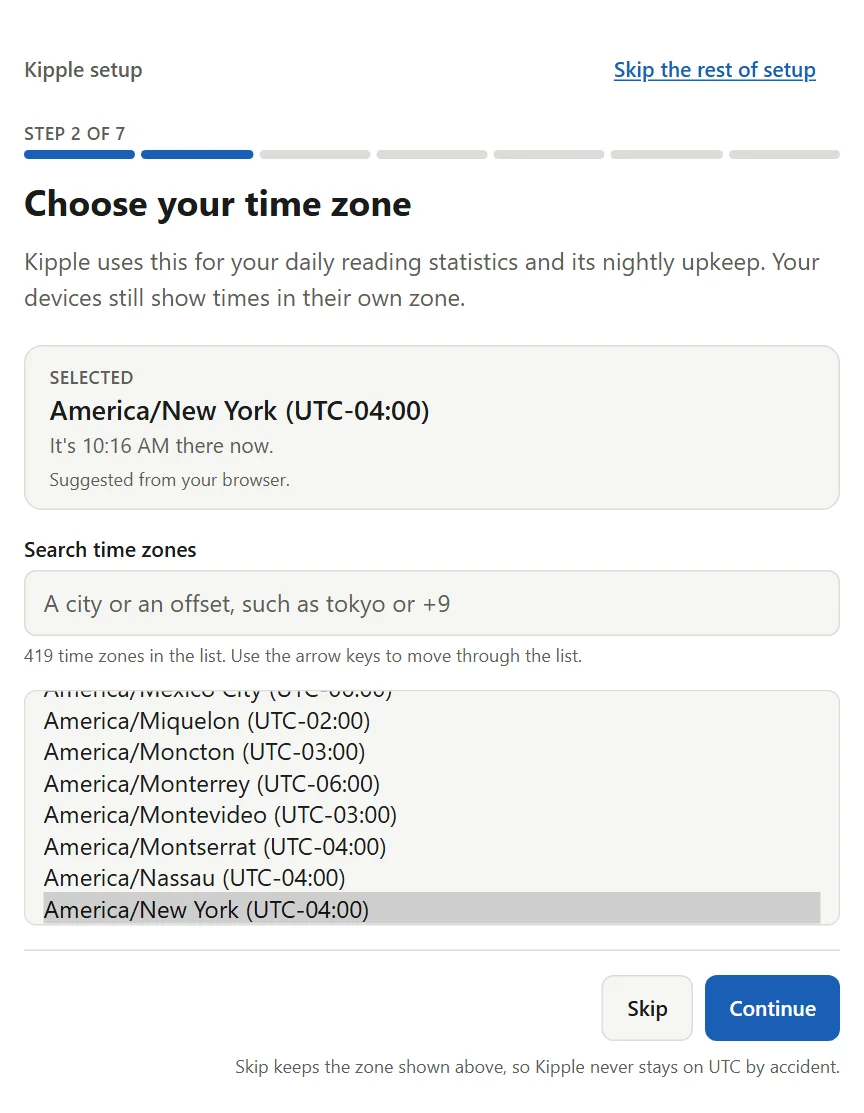
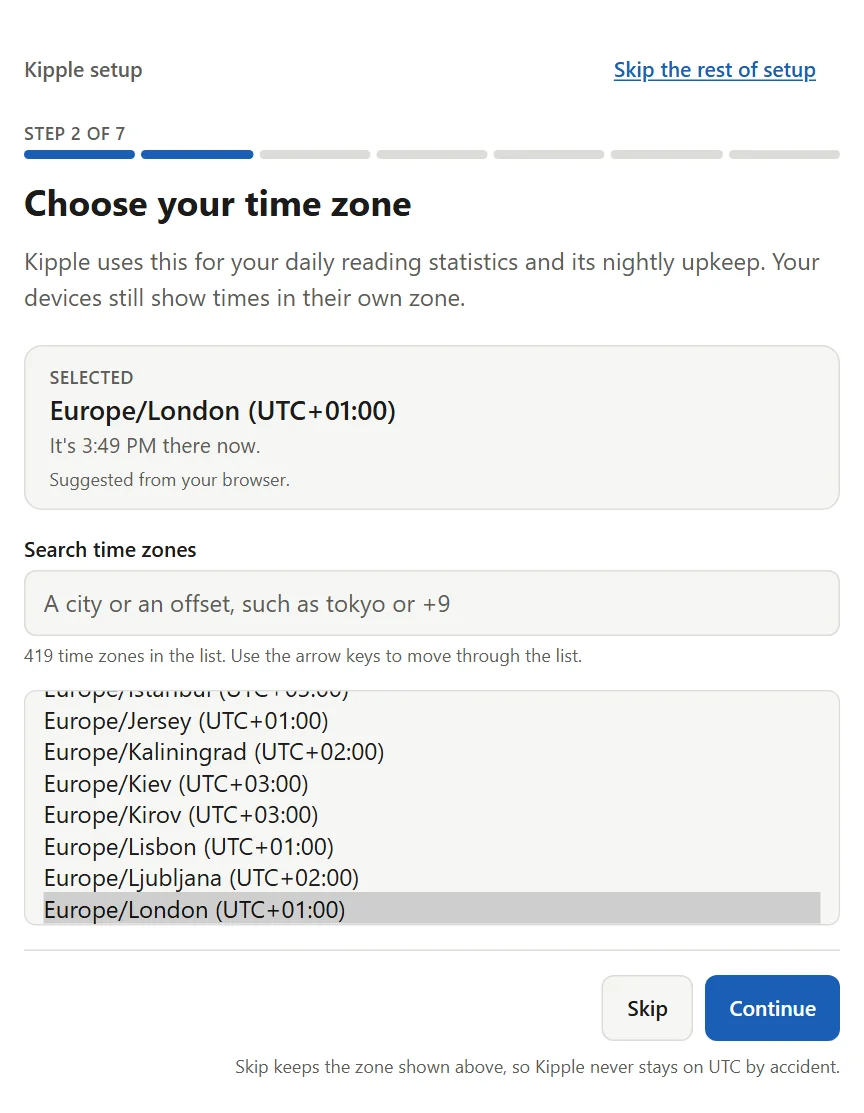
fix: wizard step list, build-from-source link, neutral time zone in the shot
List all 7 setup steps (add the address step), point the build-from-source link at docs/deploy.md, and regenerate wizard-timezone.webp with a Europe/London browser zone instead of a personal one.

Changed region(s): [[0.0312, 0.611, 0.4688, 0.8248], [0.0625, 0.336, 0.5, 0.4277]]

diff --git a/index.html b/index.html
@@ -172,7 +172,7 @@
     security_opt: ["no-new-privileges:true"]
 volumes:
   kipple_data:</code></pre>
-        <p class="after-code">Open <code>http://127.0.0.1:1919</code>. The port is 1919 and it is published on this machine only. A prerelease is tagged only with its exact version, so the examples name one. Prefer to build it yourself? The <a href="https://github.com/WPTK/Kipple#build-from-source">README</a> has the steps, and Docker is all you need. Backups, recovery and reverse-proxy notes are in <a href="https://github.com/WPTK/Kipple/blob/main/docs/deploy.md">docs/deploy.md</a>.</p>
+        <p class="after-code">Open <code>http://127.0.0.1:1919</code>. The port is 1919 and it is published on this machine only. A prerelease is tagged only with its exact version, so the examples name one. Prefer to build it yourself? The <a href="https://github.com/WPTK/Kipple/blob/main/docs/deploy.md#build-from-source">deploy guide</a> has the steps, and Docker is all you need. Backups, recovery and reverse-proxy notes are in <a href="https://github.com/WPTK/Kipple/blob/main/docs/deploy.md">docs/deploy.md</a>.</p>
       </div>
     </div>
   </section>
@@ -184,7 +184,7 @@ volumes:
       </div>
       <div class="setup-text">
         <p>The first time you open Kipple it starts a short setup wizard, and its first screen creates your account.</p>
-        <p>The wizard takes about a minute and every step after the account can be skipped. The steps are your account, time zone, look and feel (day and night themes and the reading font), an import from your old reader (OPML), a few recommended feeds, and an optional Reader API password for the apps that sync.</p>
+        <p>The wizard takes about a minute and every step after the account can be skipped. The steps are your account, time zone, look and feel (day and night themes and the reading font), an import from your old reader (OPML), a few recommended feeds, the address your other devices will use, and an optional Reader API password for the apps that sync.</p>
         <p class="notice"><b>No password?</b> The account step offers to go without one. An instance with no password must only be reachable from localhost or over <a href="https://tailscale.com/">Tailscale</a>. Anyone who can reach it can read and change everything. Kipple refuses open sign-in through a reverse proxy or tunnel.</p>
       </div>
       <div class="shot-row steps">

diff --git a/design-system/DESIGN-SYSTEM.md b/design-system/DESIGN-SYSTEM.md
@@ -260,7 +260,7 @@ for reduced motion. No other animation.
 - Links: https://github.com/WPTK/Kipple (source, changelog at `blob/main/CHANGELOG.md`, license at
   `blob/main/LICENSE`, deploy notes at `blob/main/docs/deploy.md`), https://github.com/WPTK/kipple-history,
   https://wptk.org.
-- `screenshots/`: four WebP files listed in the Screenshots component, plus three wizard shots (`wizard-account.webp` 864 x 1424, `wizard-timezone.webp` 864 x 1113, `wizard-theme.webp` 864 x 1344) shown in the First run section as `.shot-row.steps` (three equal columns, one column at or below 832px). The wizard shots were taken on 2026-10-17 at app commit `11cb2402` (`v1.0.0-rc.1`) from a throwaway instance started with `KIPPLE_SEED_SET=fresh npm run seed`, in a 1000px wide viewport at 1.5x with the Paper scheme, each cropped to the 576px wide wizard column and as tall as its content (steps 1 to 3 of 7; step 1 is filled in with the user name "reader" and a sample password, step 2 shows the browser zone America/New_York). Captured from a throwaway instance of the app
+- `screenshots/`: four WebP files listed in the Screenshots component, plus three wizard shots (`wizard-account.webp` 864 x 1424, `wizard-timezone.webp` 864 x 1113, `wizard-theme.webp` 864 x 1344) shown in the First run section as `.shot-row.steps` (three equal columns, one column at or below 832px). The wizard shots were taken on 2026-10-17 at app commit `11cb2402` (`v1.0.0-rc.1`) from a throwaway instance started with `KIPPLE_SEED_SET=fresh npm run seed`, in a 1000px wide viewport at 1.5x with the Paper scheme, each cropped to the 576px wide wizard column and as tall as its content (steps 1 to 3 of 7; step 1 is filled in with the user name "reader" and a sample password, step 2 shows the zone suggested by a neutral browser time zone, Europe/London, set with the Playwright context option `timezoneId`). Captured from a throwaway instance of the app
   by the app repo's `web/scripts/site-shots.mjs` (run at every release, `docs/RELEASING.md` step 12), after
   `KIPPLE_SEED_SET=site npm run seed`, which seeds Wikimedia Picture of the Day, Wikipedia Featured Article, NASA
   Image of the Day, Go Blog and Hacker News in a folder named "Less noise". Last captured 2026-10-17 at app commit `v1.0.0-rc.1` (`11cb2402`), straight from the seed with no extra folders, so the sidebar shows the single "Less noise" folder. Desktop: a 1440 x 900 viewport at 1.25x, giving 1800 x 1125 directly. Phone: 390 x 844
